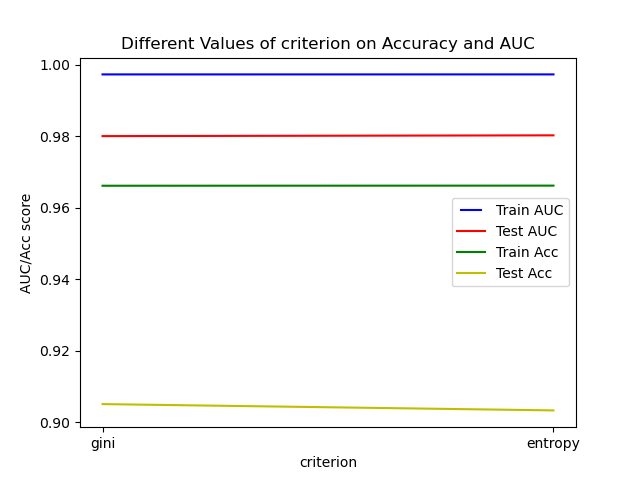
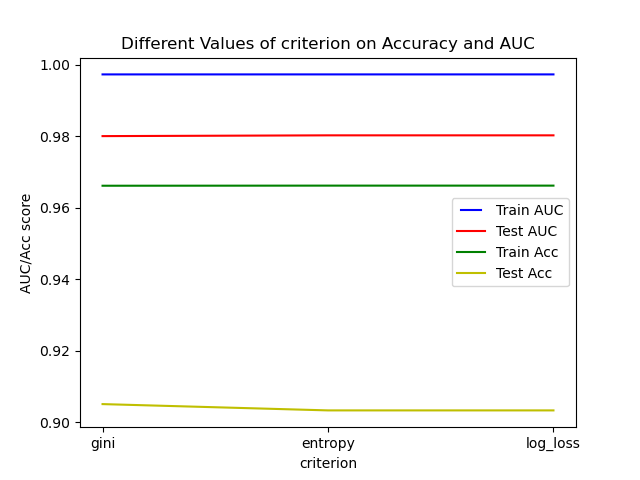
Added log_loss to criterions

Changed region(s): [[0.2188, 0.8125, 0.8438, 0.875], [0.4688, 0.9062, 0.5625, 0.9688], [0.8125, 0.9062, 0.9062, 0.9375]]

diff --git a/1.6_models.py b/1.6_models.py
@@ -141,7 +141,7 @@ def plot_auc_rf_tuning(rfmodel, x_train, x_test, y_train, y_test):
     min_samples_leafs = np.linspace(0.01, 0.5, 50, endpoint=True) # Lower is better (Only raise if not enough time/resources)
     tune_hparam_auc_acc(model_rf, x_train, x_test, y_train, y_test,
                      min_samples_leafs, {'n_estimators': 40, 'random_state': RANDOM_STATE}, 'min_samples_leaf')
-    criterions = ['gini', 'entropy'] # No effect
+    criterions = ['gini', 'entropy', 'log_loss'] # Gini is best
     tune_hparam_auc_acc(model_rf, x_train, x_test, y_train, y_test,
                      criterions, {'n_estimators': 40, 'random_state': RANDOM_STATE}, 'criterion')
     return
@@ -205,13 +205,15 @@ def main():
     
     # TODO: Hyperparameter tuning with GridSearchCV, RandomSearchCV, BayesianOptimization
     
-    # "For this project, the goal is to predict the outcome (hospitalized, non-hospitalized, deceased)
-    # of a case correctly with a small number of false negatives and false positives"
+    '''
+    "For this project, the goal is to predict the outcome (hospitalized, non-hospitalized, deceased)
+    of a case correctly with a small number of false negatives and false positives"
     
-    # Determined ROC curves to obtain good False Positive / True Positive rates 
-    # He means F1 precision and recall probably, but ROC can work as well
-    # Graphing purposes!!! - ROC curves can be seen if you uncomment it in the used model
-    # Comment out to reduce processing time
+    Determined ROC curves to obtain good False Positive / True Positive rates 
+    He means F1 precision and recall probably, but ROC can work as well
+    Graphing purposes!!! - ROC curves can be seen if you uncomment it in the used model
+    Comment out to reduce processing time
+    '''
     plot_auc_rf_tuning(model_rf, x_train, x_test, y_train, y_test)
     
 
